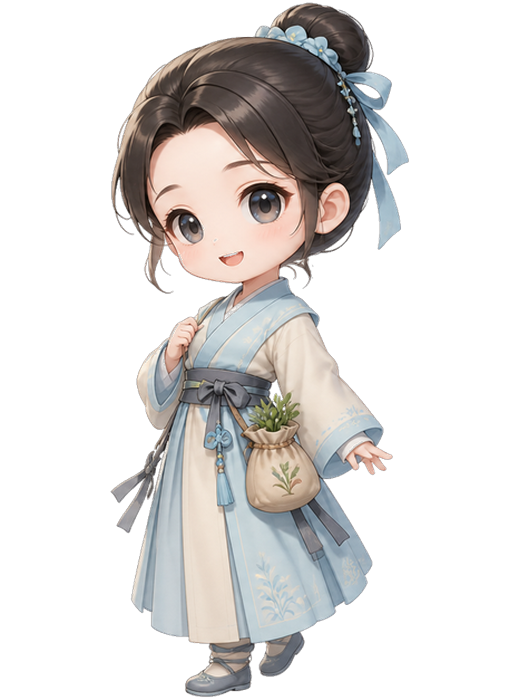
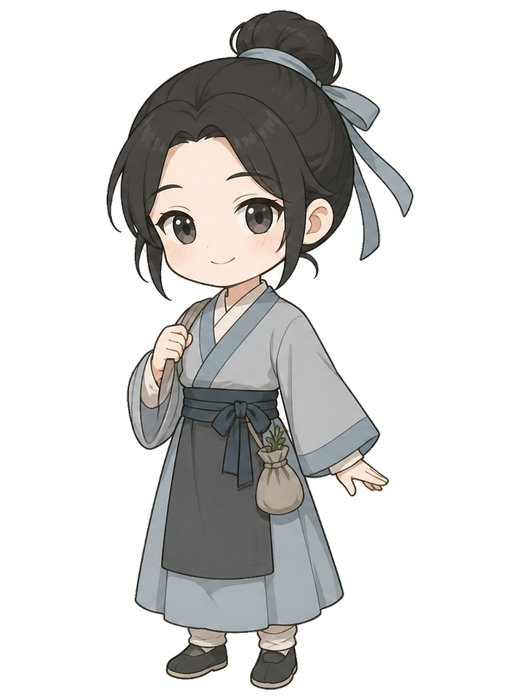
V126.1：四立绘统一 2D 明快 Q 平涂（婆婆去 3D、江晚收浅墨）。

Changed region(s): [[0.1846, 0.0, 0.8, 1.0], [0.5538, 0.15, 0.5846, 0.18]]

diff --git a/DEV-TASKS-V126-1.md b/DEV-TASKS-V126-1.md
@@ -1,0 +1,59 @@
+# 《墨问岐黄》开发任务 V126.1（立绘画风统一）
+
+日期：2026-09-08  
+下发：全局统筹 → 开发负责人 → 小组（美工主责）  
+前置：V126 已合入（`de6ffdc`）；四人路径已锁见 `ui/characters/README.md`  
+依据：Haopeng 要求统一画风；锁定 **明快 Q 平涂**（圆头身、清楚表情、干净色），不是 3D 渲染、不是写实、不是文人写意
+
+## 目标
+
+四张立绘看起来像 **同一套角色卡**，挂在诊室/问诊不跳戏。
+
+锚点风格：以 **赵阿福 / 沈清荷** 那路 2D Q 平涂为基准（线清晰、色块干净、轻微阴影即可）。
+
+## 范围（锁死）
+
+| 角色 | 文件 | 本补丁重点 |
+| --- | --- | --- |
+| 周婆婆 | `zhou_popo.png` | **必改**：去掉立体/3D 渲染感，改成与阿福/清荷同套的 2D Q 平涂；仍深褐宽袖、白发髻、手瘦、温和 |
+| 江晚 | `jiang_wan.png` | **必看**：保留可爱 Q，但服装气质收向 **浅墨学徒袍**（可淡青灰/浅墨，别过于鲜亮「药娘」感）；仍是江晚，禁止林晚 |
+| 赵阿福 | `zhao_afu.png` | 微调即可：比例/线宽与另外三人齐；短褐肩宽坐不住不变 |
+| 沈清荷 | `shen_qinghe.png` | 微调即可：青灰束发、肩含；作风格锚之一 |
+
+共同约束：
+
+- 透明底 PNG；高约 512～768；站姿全身或近全身，脚底可裁进座位框
+- 头身比、线宽、描边、阴影语言 **四张一致**
+- 明快但不刺眼；中式医馆气质
+- **替换原文件同名覆盖**；挂载代码不改玩法（路径已通则只换图）
+- 不新开表情系统、不加深荷/问舟（除非顺手且不拖期）
+
+## 完成标准
+
+1. 四张并排预览，一眼同一画风；婆婆无 3D 塑料感。
+2. 江晚可读为浅墨/淡彩学徒，仍辨认是江晚。
+3. 诊室/问诊切换仍正确；`portrait_swap_ok` + `SMOKE PASS`。
+4. 推 main；更新 `ui/ART.md` 一句「V126.1 画风统一」。
+
+## 分工
+
+### 开发负责人
+- 转发美工；验收四张并排一致性；推送。
+
+### 游戏美工设计（主责）
+- 重绘/大改婆婆；校准江晚；微调阿福/清荷至同一套。
+- 交四张替换文件 + 一张四宫格或并排预览图（可放 `ui/characters/_proof_v126_1.png`）。
+
+### 游戏角色开发
+- 一般只换资源；若 import 需刷新则处理。确认回退链仍在。
+
+### 其他
+- 剧本/逻辑/场景/LLM：不动。
+
+## 不做
+
+新角色、表情状态机、换装、改座位逻辑、改 Steam 包、玩法。
+
+## 回我
+
+四立绘并排预览（或 `_proof_v126_1.png`）+ commit。

diff --git a/DESIGN.md b/DESIGN.md
@@ -113,4 +113,5 @@
 - V123 Steam Coming Soon 包已验收。
 - V124 炮制短环已验收关单。
 - V125 针灸入门已验收关单。
-- 下一档 **V126 角色立绘**：江晚 + 三病人单人透明立绘并挂诊室/问诊；见 `DEV-TASKS-V126.md`。
+- V126 角色立绘已验收；V126.1 四立绘画风统一为 2D Q 平涂（见 `DEV-TASKS-V126-1.md`）。
+- **V126.1** 立绘画风统一（明快 Q 平涂；婆婆去 3D；江晚收浅墨）：见 `DEV-TASKS-V126-1.md`。

diff --git a/ui/characters/README.md b/ui/characters/README.md
@@ -10,3 +10,5 @@
 | 苏问舟（选做头像） | `mentor_su` | `ui/characters/su_wenzhou.png` |
 
 透明底 PNG；高约 512～768；明快 Q；禁止林晚。运行时优先单人图，缺则回退 `ui/apprentice.png` / `ui/patients-three.png`。
+
+V126.1：画风统一为 2D 明快 Q 平涂；见 `_proof_v126_1.png`。旧版备份 `_prev_v126/`。

diff --git a/ui/ART.md b/ui/ART.md
@@ -31,3 +31,5 @@ HUD 不挂诊断名。建筑分层 L1–L4 下一轮洗萌态。
 | `characters/zhou_popo.png` | 周婆婆 |
 
 旧 `apprentice.png` / `patients-three.png` 可作备用与商店构图。
+
+V126.1 画风统一：四立绘同套 2D 明快 Q 平涂（婆婆去 3D；江晚收浅墨学徒袍）。
